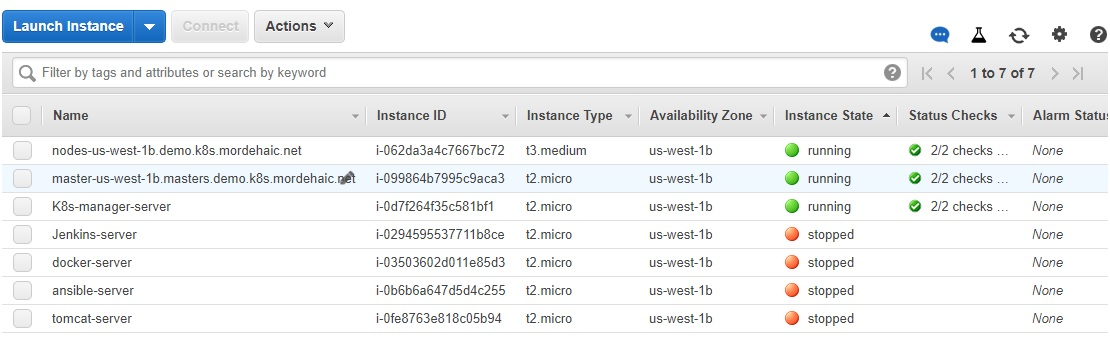
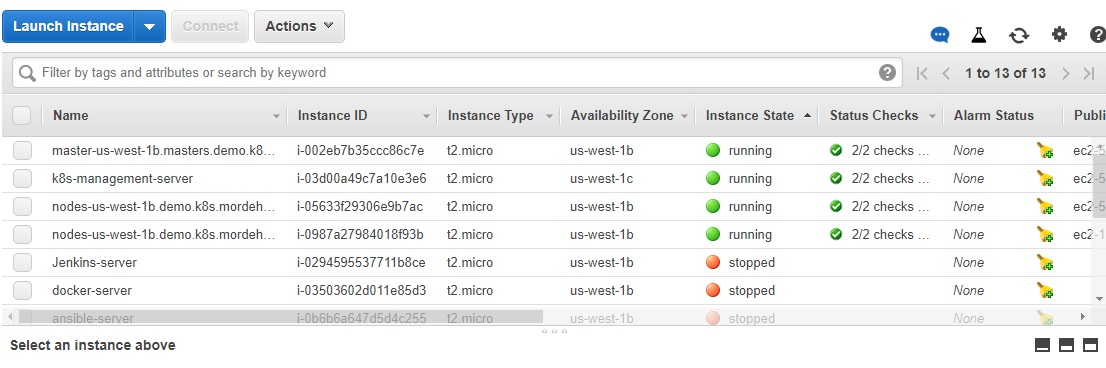
Modify the DevOps-Project-Phase-5.md file

diff --git a/DevOps-Project-Phase-5.md b/DevOps-Project-Phase-5.md
@@ -2,12 +2,12 @@
 
   ![Project-Phase5!](Images/Phase5/project-phase-5.jpg)
 
-# A - Setup Kubernetes (K8s) Cluster on AWS
+# A - Kubernetes (K8s) Cluster installation on AWS using Kops
 
- ### 1. Launch an EC2 instance for eksctl server
-   Uses Amazon Linux 2 AMI as for the Jenkins server and the docker server
+ ### 1. Launch an EC2 instance k8s-manager-server
+   Uses Ubuntu Server 20.04 LTS AMI (64-bit Arm)
 
-![amazon-linux2-ami!](Images/Phase5/amazon-linux2-ami.jpg)
+![ubuntu-server-20-04-lts-ami!](Images/Phase5/ubuntu-server-20-04-lts-ami.jpg)
    With internet access
 
    Security Group with Port '8080' open for internet
@@ -16,107 +16,79 @@
    AWS EC2 Dashboard
    ![aws-ec2-dashboard!](Images/Phase5/aws-ec2-dashboard.jpg)
 
-### 2. Connect to the eksctl-server via Putty
-   Change hostname of the ec2 machine to k8s-manager-server:
+### 2. Connect to the k8s management server via Git Bash
+    Run the next commands:
+        . cd Downloads(directory in which is located the ubuntu-server-20-04.pem file)
+        . ssh -i "ubuntu-server-20-04.pem" ubuntu@ec2-54-183-200-127.us-west-1.compute.amazonaws.com
+   ![connect-to-k8s-management-server!](Images/Phase5/connect-to-k8s-management-server.jpg)
+    
+    Change hostname of the ec2 machine to k8s-manager-server:
 
         . sudo su -
-        . hostname eksctl-server
+        . hostname k8s-management-server
         . sudo su -
-   ![connect-to-eksctl-server!](Images/Phase5/connect-to-eksctl-server.jpg)
+   ![set-hostname-k8s-management-server!](Images/Phase5/set-hostname-k8s-management-server.jpg)
 
-### 3. Install AWSCLI on the eksctl-server
-   a. Download python-pip
-
-        Run the next command:
-        . yum install python-pip
-   ![install-python-pip!](Images/Phase5/install-python-pip.jpg)
-
-   b. Install awscli
-
-        Run the next command:
-        . pip install awscli
-       
-   aws version
-        Run the next command:
-            . aws --version
-   ![aws-version!](Images/Phase5/aws-version.jpg)
-
- ### 4. Add User on AWS via IAM Service
-    
-   ![iam-create-user!](Images/Phase5/iam-create-user.jpg)
-
-    Add User: user-awscli
-    
-    Select AWS credential type: Selected Access key - Programmatic access
-   ![add-user-awscli!](Images/Phase5/add-user-awscli.jpg)
-
-   Click on the "Next: Permissions" button
-
-   Attach the next existing policies directly:
-    . AmazonEC2FullAccess
-    . AmazonS3FullAccess
-    . AmazonRoute53FullAccess
-    . IAMFullAccess
-    . AWSCloudFormationFullAccess
-    . AmazonVPCFullAccess
-    . AdministratorAccess
-   ![attach-policies-to-user-awscli!](Images/Phase5/attach-policies-to-user-awscli.jpg)
-
-    Click on the "Next: Tags" button
-
-    Click on the "Next: Review" button
-   ![review-user!](Images/Phase5/review-user.jpg)
-
-   Click on the "Create user" button
-   ![user-created!](Images/Phase5/user-created.jpg)
-
-   Download the user credentials.csv file
-   It contains the Access key ID and the Secret access key of the user created
-
-   We will use these key to configure aws
-
- ### 5. Go to the Powershell prompt
     Run the next command:
-        . aws configure
+        . apt update
 
-        Set for AWS Access Key: the Access key ID of the credentials.csv file
-        Set for AWS Secret Access key: the Secret Access key of the credentials.csv file
-        Set for Default region name: us-west-1
-   ![aws-configure!](Images/Phase5/aws-configure.jpg)
 
-### 6. Setup kubectl
-    a. Download kubectl version 1.21
-        Run the next command:
-            . curl -o kubectl https://amazon-eks.s3.us-west-2.amazonaws.com/1.21.2/2021-07-05/bin/linux/amd64/kubectl
-            . ls
+### 3. Install AWSCLI
+   Download the awscli-bundle.zip file by running the next command:
+
+    . curl https://s3.amazonaws.com/aws-cli/awscli-bundle.zip -o awscli-bundle.zip
+    . ls
+   ![download-awscli-bundle!](Images/Phase5/download-awscli-bundle.jpg)
+    
+    . apt install unzip python -y
+    . unzip awscli-bundle.zip
+    . ls
+   ![unzip-awscli-bundle](Images/Phase5/unzip-awscli-bundle.jpg)
+
+    We have to install Python 3.8 because we can't install awscli with Python 2.7 installed on the server.
+    Install Python 3.8 using the next command:
+      . apt-get install python3.8
+      . sudo ln -s /usr/bin/python3.8 /usr/bin/python
+      . sudo apt install python3.8-venv
+      . ./awscli-bundle/install -i /usr/local/aws -b /usr/local/bin/aws
+      . aws --version
+   ![install-awscli!](Images/Phase5/install-awscli.jpg)
+
+### 4. Install kubectl on ubuntu instance
+
+    Download kubectl version 1.22.3 (we have to download the same version we will download for kops)running the next command:
+    . curl -LO https://dl.k8s.io/release/v1.22.3/bin/linux/amd64/kubectl
+    . ls
    ![download-kubectl!](Images/Phase5/download-kubectl.jpg)
-      
-    b. Grant execution permissions to kubectl executable
-        Run the next command:
-            . chmod +x ./kubectl
-            . ll
-   ![chmod-kubectl!](Images/Phase5/chmod-kubectl.jpg)
 
-    c. Move kubectl onto /usr/local/bin
-        Run the next command:
-            . mv ./kubectl /usr/local/bin
-   ![mv-kubectl!](Images/Phase5/mv-kubectl.jpg)
+    . chmod +x ./kubectl (give execution permission)
+    . ls -l
+   ![chmod+x-kubectl!](Images/Phase5/chmod+x-kubectl.jpg)
 
-    d. Test that your kubectl installation was successful
-        Run the next command:
-            . kubectl version --short --client
-   ![kubectl-version-client!](Images/Phase5/kubectl-version-client.jpg)  
+    . sudo mv ./kubectl /usr/local/bin/kubectl
+    . ls -l /usr/local/bin/kubectl
+    . kubectl version
+   ![kubectl-version!](Images/Phase5/kubectl-version.jpg)
 
-### 7. Setup eksctl
-    a. Download and extract the latest release
-        Run the next commands:
-            . curl --silent --location "https://github.com/weaveworks/eksctl/releases/latest/download/eksctl_$(uname -s)_amd64.tar.gz" | tar xz -C /tmp
-            . sudo mv /tmp/eksctl /usr/local/bin
-            . eksctl version
-            . ll /usr/local/bin
-   ![setup-eksctl!](Images/Phase5/setup-eksctl.jpg)
+### 5. Install kops on ubuntu instance
 
-### 8. Create an IAM user/role with Route53, EC2, IAM and S3 full access
+    Kops is a tool that is useful to set up kubernetes cluster on AWS
+    Without this tool, we can't talk with our AWS management console
+    Run the next command to download the package:
+      . curl -LO https://github.com/kubernetes/kops/releases/download/$(curl -s https://api.github.com/repos/kubernetes/kops/releases/latest | grep tag_name | cut -d '"' -f 4)/kops-linux-amd64
+
+      . ll
+   ![curl-kops!](Images/Phase5/curl-kops.jpg)
+
+      . chmod +x kops-linux-amd64 (give execution permission)
+      . ls -l
+   ![ls-l-kops!](Images/Phase5/ls-l-kops.jpg)
+
+      . sudo mv kops-linux-amd64 /usr/local/bin/kops
+      . ls -l /usr/local/bin/kops
+   ![kops-version!](Images/Phase5/kops-version.jpg)
+
+### 6. Create an IAM user/role with Route53, EC2, IAM and S3 full access
 
   AWS Console --> Services --> IAM
 
@@ -136,24 +108,21 @@
     . AmazonEC2FullAccess
     . AmazonS3FullAccess
     . AmazonRoute53FullAccess
-    . IAMFullAccess
-    . AWSCloudFormationFullAccess
-    . AmazonVPCFullAccess
-    . AdministratorAccess
+    . IAMFullAccess 
         
    ## Add tags
    ### Click on the Button: 
      Next: Tags
 
      Key: Name
-     Value: K8s-role
+     Value: k8s-role
    ![add-tags!](Images/Phase5/add-tags.jpg)
 
    ## Review
    ### Click on the Button: 
      Next: Review
 
-     Role name: K8s-role
+     Role name: k8s-role
    ![review-screen!](Images/Phase5/review-screen.jpg)
    we can see the policies we have granted
 
@@ -163,7 +132,7 @@
 
    ## Attach this role to ec2 instance
    ### Go to ec2 instance console
-   ![ec2-console!](Images/Phase5/ec2-console.jpg)
+   ![aws-ec2-dashboard!](Images/Phase5/aws-ec2-dashboard.jpg)
 
    ### Click to Actions --> Instance Settings --> Attach/Replace IAM Role
    ![attach-iam-role!](Images/Phase5/attach-iam-role.jpg)
@@ -171,28 +140,17 @@
    ### Click on the Apply button
    ![iam-role-operation-succeeded!](Images/Phase5/iam-role-operation-succeeded.jpg)
 
-   ### Attach IAM Role to eksctl-server ec2 instance (attach to North California(us-west-1) region
+   ### Attach IAM Role to ubuntu ec2 instance (attach to North California(us-west-1) region
 
-   ### Go to the terminal of the k8s-manager-server
+   ### Go to the terminal of the k8s-management-server
    ### Run the next command:
      . aws configure
         
      . Set for the Default region name: us-west-1 
    ![aws-configure!](Images/Phase5/aws-configure.jpg)
 
-   ### Check if our role is working by running the next command:
-     . aws s3 ls
-   ![checking-role-is-working!](Images/Phase5/checking-role-is-working.jpg)
 
-   ### It displays: 
-   ### demo.k8s.mordehaic.net
-
-   We can access S3. This is the bucket we created
-
-   ### We are going to store our configuration in this bucket and make it emply
-   ![empty-bucket!](Images/Phase5/empty-bucket.jpg)
-
-### 9. Create a Route53 private hosted zone(you can create Public hosted zone if you have a domain)
+### 7. Create a Route53 private hosted zone(you can create Public hosted zone if you have a domain)
     Routeh53 --> DNS management 
     
     Click Create hosted zone button
@@ -208,35 +166,30 @@
    hosted zone created
    ![hosted-zone-created!](Images/Phase5/hosted-zone-created.jpg)
 
-### 10. Create an S3 bucket
+
+### 8. Create S3 Bucket
+
+    Create a bucket named "demo.k8s.mordehaic.net" running the next command:
+        . aws s3 us-west-1 s3://demo.k8s.mordehaic.net
+   ![create-bucket!](Images/Phase5/create-bucket.jpg)
+
+   ### Check if our role is working by running the next command:
+     . aws s3 ls
+   ![checking-role-is-working!](Images/Phase5/checking-role-is-working.jpg)
+
+   ### It displays:
+   ### demo.k8s.mordehaic.net
+
+   We can access S3. This is the bucket we created
+
+
+### 9. Expose environment variable:
     Run the next command on the terminal:
 
-        . aws s3 us-west-1 s3://demo.k8s.mordehaic.net
-   ![attach-region-to!](Images/Phase5/hosted-zone-created.jpg)
+        . export KOPS_STATE_STORE=s3://demo.k8s.mordehaic.net
+   ![expose-environment-variable!](Images/Phase5/expose-environment-variable.jpg)
 
-### 11. Create our cluster and nodes
-    Command synthax:
-        eksctl create cluster --name cluster-name  \
-        --region region-name \
-        --node-type instance-type \
-        --nodes-min 2 \
-        --nodes-max 2 \ 
-        --zones <AZ-1>,<AZ-2>
-
-        example:
-        eksctl create cluster --name mordehaic \
-        --region us-west-1 \
-        --node-type t2.small 
-
-
-
-
-
-
-
-
-
-### 13. Create sshkeys before creating cluster
+### 10. Create sshkeys before creating cluster
     Run the next command on the terminal:
 
         . ssh-keygen
@@ -245,54 +198,67 @@
     Without this key, we can't create a cluster
    ![create-ssh-key!](Images/Phase5/create-ssh-key.jpg)
 
-### 14. Create kubernetes cluster definitions on S3 bucket
+### 11. Create kubernetes cluster definitions on S3 bucket
     Run the next command on the terminal:
 
         . kops create cluster --cloud=aws --zones=us-west-1b --name=demo.k8s.mordehaic.net --dns-zone=mordehaic.net --dns private
    ![cluster-configuration-created!](Images/Phase5/cluster-configuration-created.jpg) 
-        
+
    ![aws-cluster-configuration-created!](Images/Phase5/aws-cluster-configuration-created.jpg)
 
-### 15. If you wish to update the cluster worker node sizes
+    Run the next command to get cluster:
+        . kops get cluster
+   ![kops-get-cluster!](Images/Phase5/kops-get-cluster.jpg) 
+
+
+### 12. If you wish to update the cluster worker node sizes
     Run the next command on the terminal to launch smaller instance:
-     Edit your master instance group:
+     Edit your node instance group:
+        . kops edit ig --name=demo.k8s.mordehaic.net nodes-us-west-1b
+
+     For the machineType, replace t3.medium by t2.micro
+     For the maxSize and minSize, replace 1 by 2
+   ![edit-and-update-node-instance-group!](Images/Phase5/edit-and-update-node-instance-group.jpg)
+
+     Edit your master instance group:   
         . kops edit ig --name=demo.k8s.mordehaic.net master-us-west-1b
-   ![edit-master-instance-group!](Images/Phase5/edit-master-instance-group.jpg)
+    
+    For the machineType, replace t3.medium by t2.micro    
+   ![edit-and-update-master-instance-group!](Images/Phase5/edit-and-update-master-instance-group.jpg)     
 
-    For the machineType, replace t3.mediumReplace by t2.micro
-   ![change-machinetype!](Images/Phase5/change-machinetype.jpg)
 
-### 16. Create kubernetes cluster
+### 13. Create kubernetes cluster
     Run the next command:
 
      . kops update cluster --name demo.k8s.mordehaic.net --yes --admin
-   ![update-cluster!](Images/Phase5/update-cluster.jpg)
+
+   ![cluster-config-created!](Images/Phase5/cluster-config-created.jpg)
 
    . Hosted zone details
-   ![hosted-zone-details.jpg!](Images/Phase5/hosted-zone-details.jpg)
+   ![hosted-zone-details!](Images/Phase5/hosted-zone-details.jpg)
 
    . Nodes and Master was created
    ![nodes-and-master-was-created!](Images/Phase5/nodes-and-master-was-created.jpg)
 
-### 17. Validate cluster
+### 14. Validate cluster
     Run the next command:
 
       . kops validate cluster
    ![nodes-and-master-was-created!](Images/Phase5/nodes-and-master-was-created.jpg)
 
-### 18. ssh to the master
+### 15. ssh to the master
     Run the next command:
 
       . ssh -i ~/ .ssh/id_rsa ubuntu@api.demo.k8s.mordehaic.net
    ![nodes-and-master-was-created!](Images/Phase5/nodes-and-master-was-created.jpg)
 
-### 19. Check kubectl version
+### 16. Check kubectl version
     Run the next command:
 
       . kubectl version
    ![kubectl-version-bis!](Images/Phase5/kubectl-version-bis.jpg)
 
-### 20. Download kubectl
+### 17. Download kubectl
     Run the next command:
     
       . curl -LO https://storage.googleapis.com/kubernetes-release/release/$(curl -s https://storage.googleapis.com/kubernetes-release/release/stable.txt)/bin/linux/amd64/kubectl
